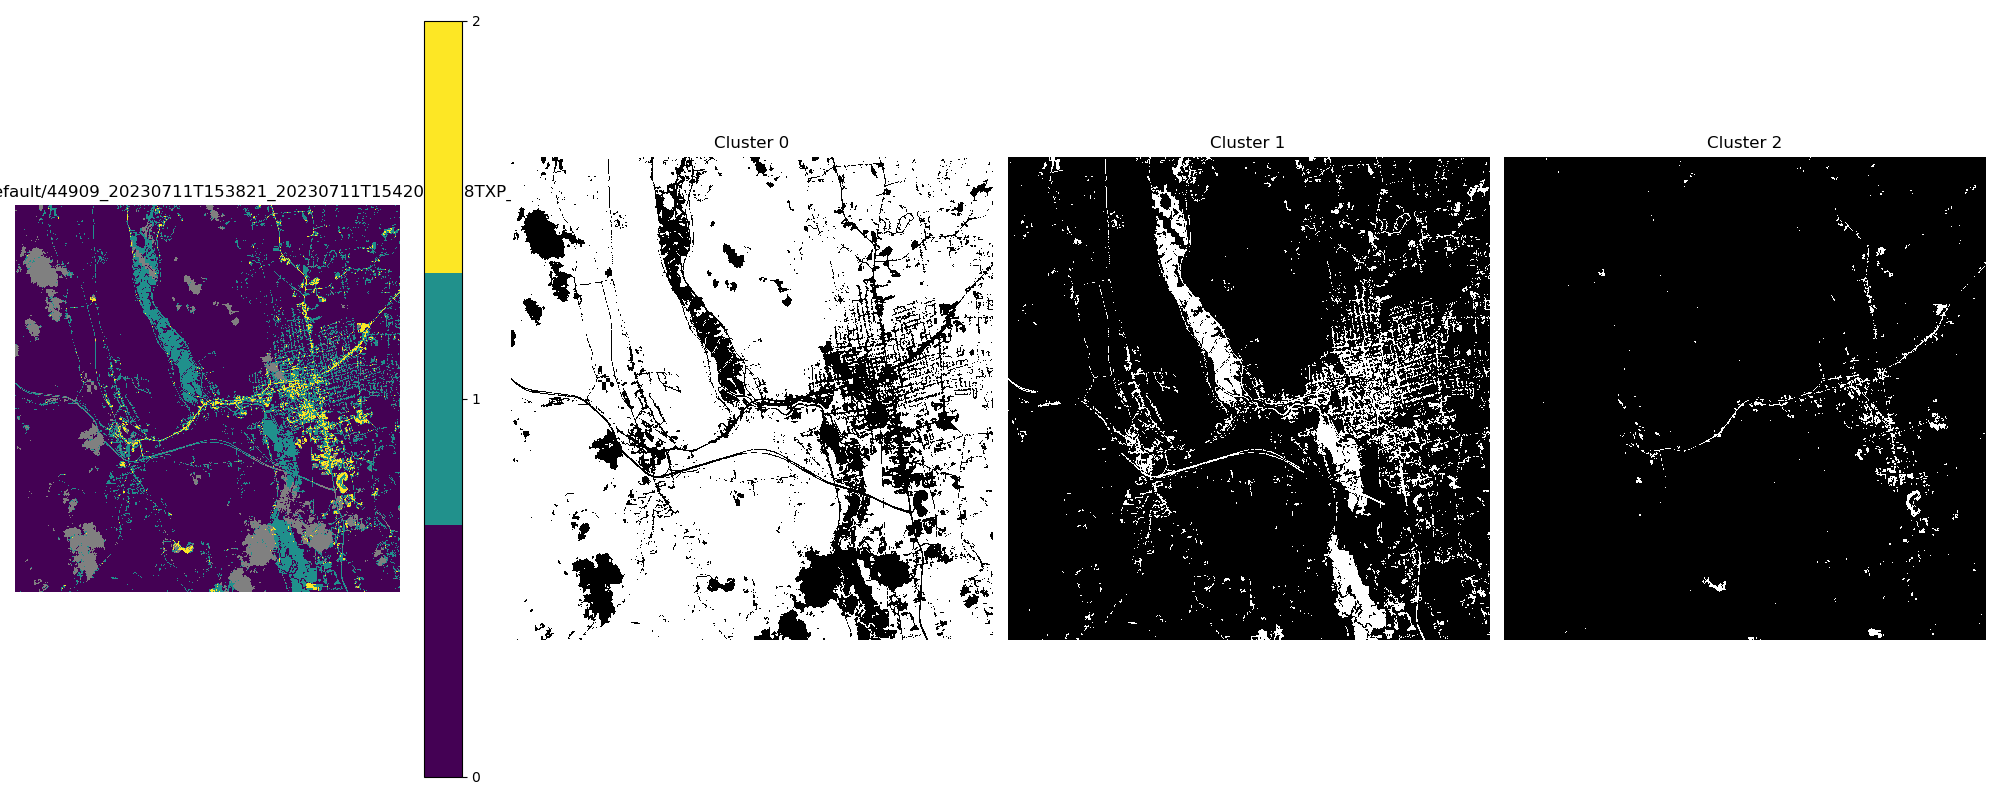
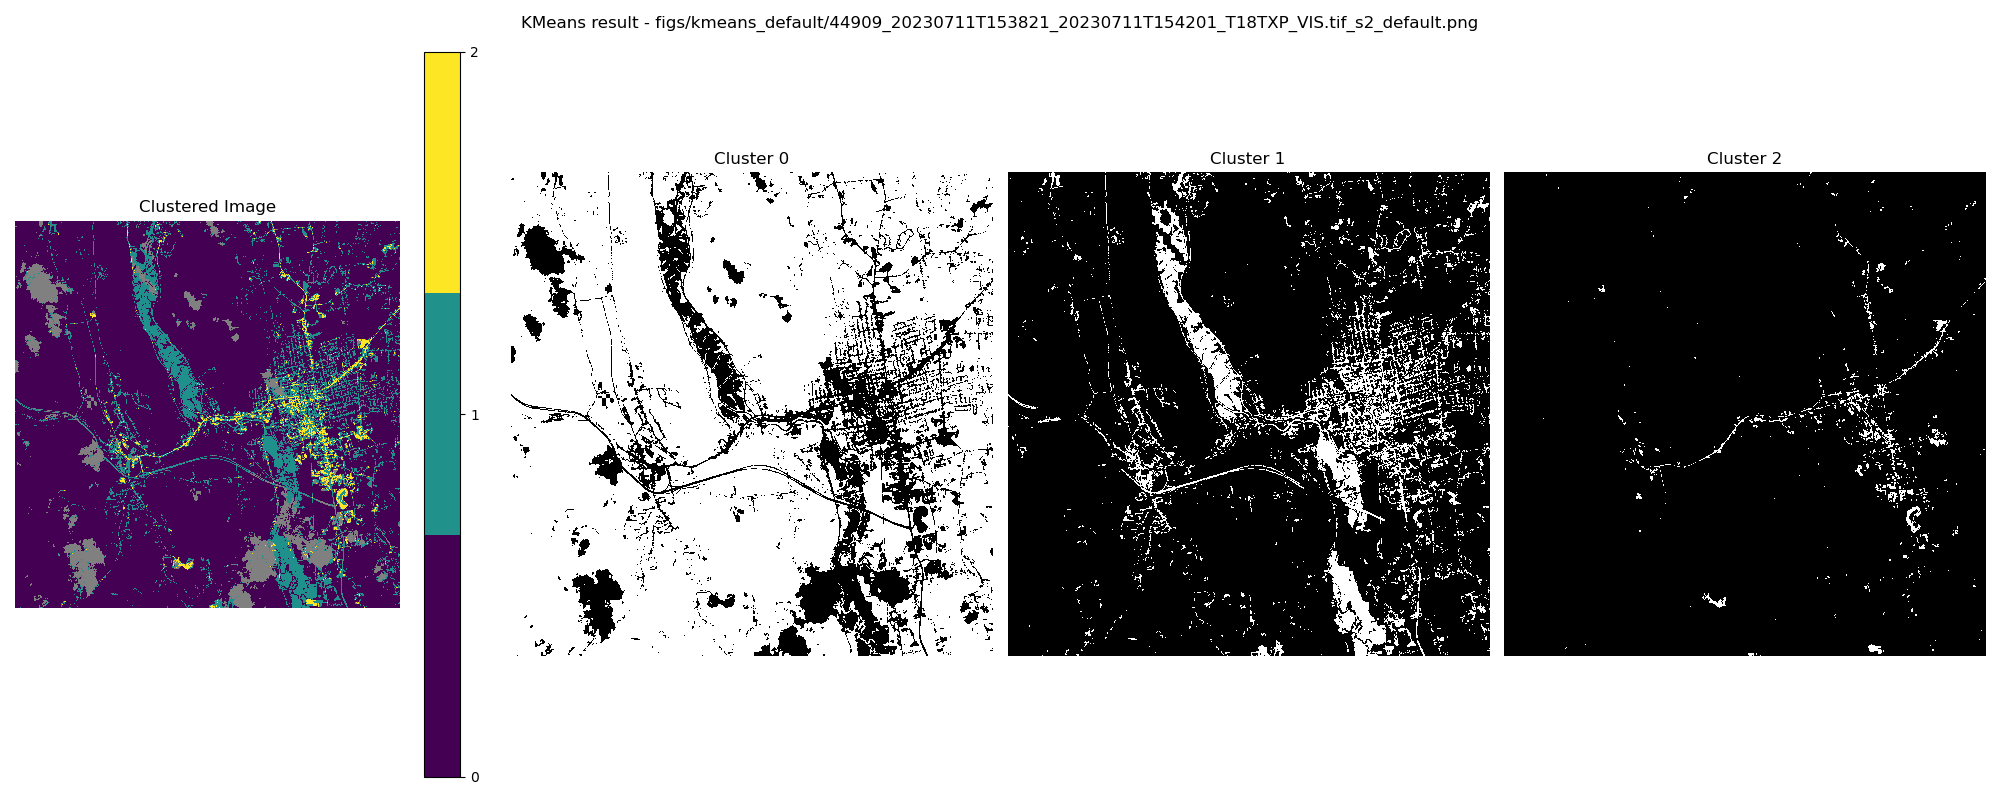
figs title fixed

diff --git a/src/utils/kmeans_utils.py b/src/utils/kmeans_utils.py
@@ -220,8 +220,10 @@ def plot_clustered_result(cluster_image, valid_pixels, original_shape, n_cluster
 
     full_image_masked = np.ma.masked_where(full_image == -1, full_image)
     fig, axes = plt.subplots(1, n_clusters + 1, figsize=(20, 8))
+
+    fig.suptitle(f'KMeans result - {file}')
     
-    axes[0].set_title(f'Clustered Image - {file}')
+    axes[0].set_title(f'Clustered Image')
     im = axes[0].imshow(full_image_masked, cmap=cmap_clustered, interpolation='nearest')
     fig.colorbar(im, ax=axes[0], ticks=np.arange(n_clusters))
     axes[0].axis('off')
@@ -283,7 +285,7 @@ def kmeans_clustering(df, init, n_clusters, condition):
 
 def preprocess_image_features(df):
     """
-    Combine the image data and other features with StandardScaler() applied
+    Combine the image data and other features with StandardScaler() and PCA() applied
 
     Args:
         df (pd.DataFrame): The DataFrame with the image data
